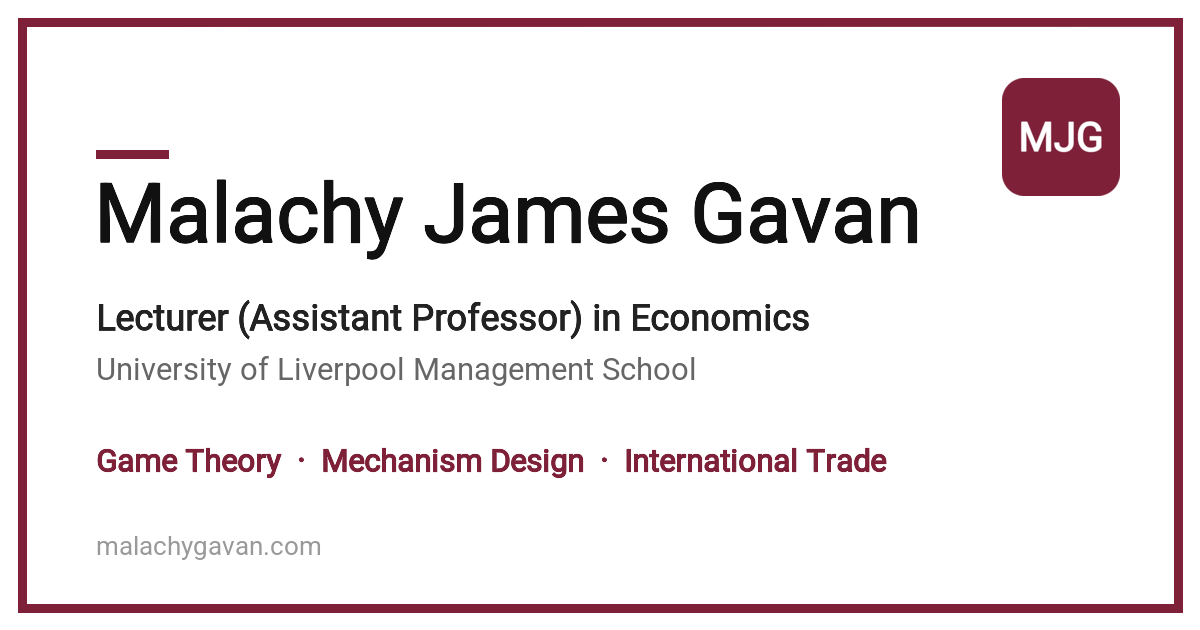
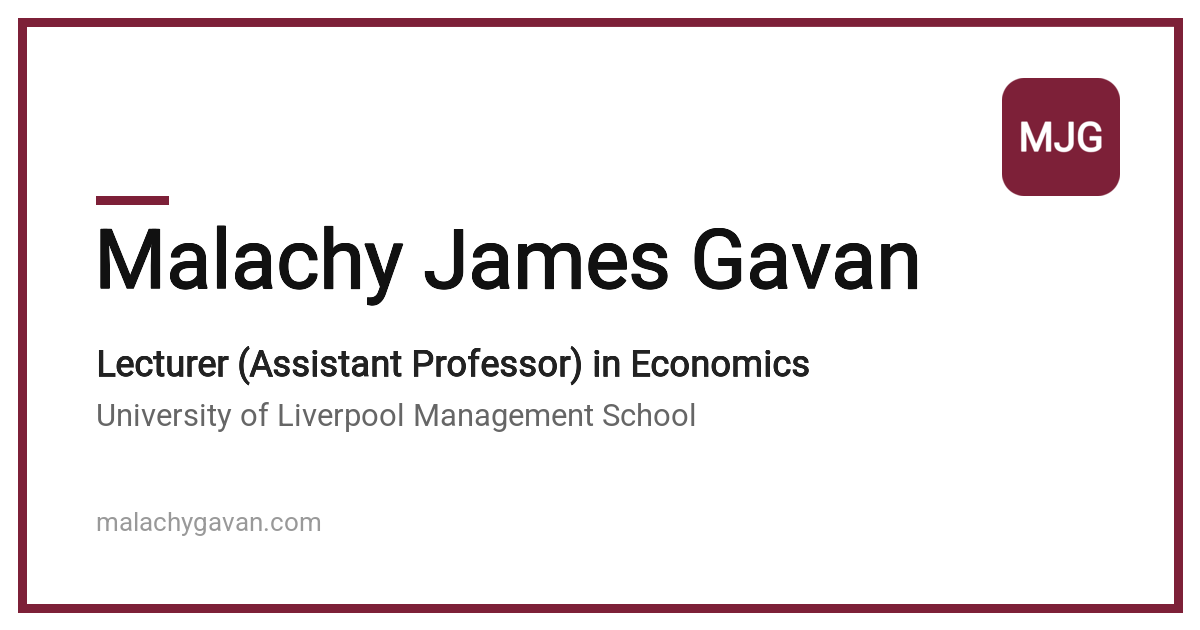
Simplify the link-preview card and tighten the bio
Drop the research-fields line from the Open Graph card so it reads as name,
title, affiliation and URL only. Shorten the About text: the header already
states the current position and PhD institution, so the bio no longer repeats
them.

Changed region(s): [[0.0617, 0.2111, 0.7708, 0.6032], [0.0617, 0.6333, 0.74, 0.754], [0.0617, 0.8143, 0.2775, 0.9048]]

diff --git a/_pages/about.md b/_pages/about.md
@@ -81,9 +81,9 @@ latest_posts:
 
 <div class="bio" markdown="1">
 
-I am an economic theorist with research interests in mechanism design and negotiation. In mechanism design, I study how institutions can be designed to deliver good outcomes even when behaviour is unpredictable. In negotiation, I examine how real-world features of bargaining can lead to inefficiencies. These strands also connect to my secondary interest in international trade, where institutional design and negotiation play a central role in shaping trade agreements.
+I am an economic theorist working on mechanism design and negotiation. In mechanism design, I study how institutions can be designed to deliver good outcomes even when behaviour is unpredictable. In negotiation, I examine how real-world features of bargaining can lead to inefficiencies. These strands also connect to my secondary interest in international trade.
 
-I am currently a Lecturer (Assistant Professor) in Economics at the [University of Liverpool Management School](https://www.liverpool.ac.uk/management/). I received my Ph.D. from [Universitat Pompeu Fabra](https://www.upf.edu/) (UPF) and the [Barcelona School of Economics](https://bse.eu/) (BSE) under the supervision of Antonio Penta.
+I received my Ph.D. from [Universitat Pompeu Fabra](https://www.upf.edu/) and the [Barcelona School of Economics](https://bse.eu/), under the supervision of Antonio Penta.
 
 See my [research](/publications/), download my [CV](/cv/), or contact me by [email](mailto:malachy.gavan@liverpool.ac.uk).
 
